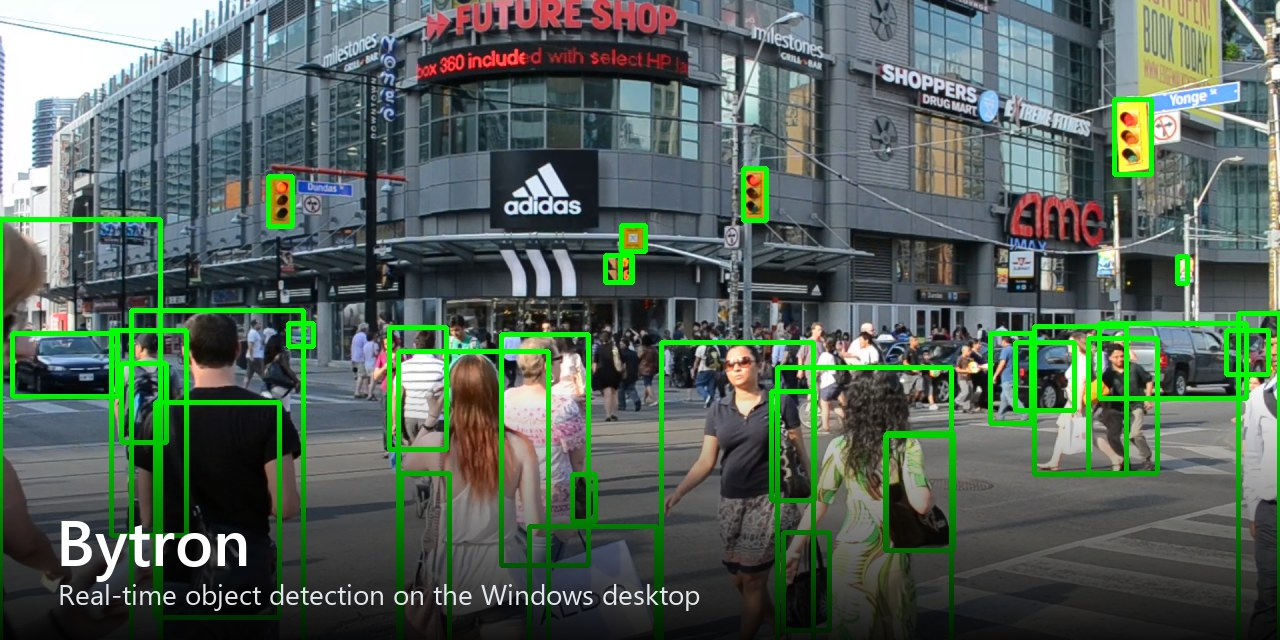
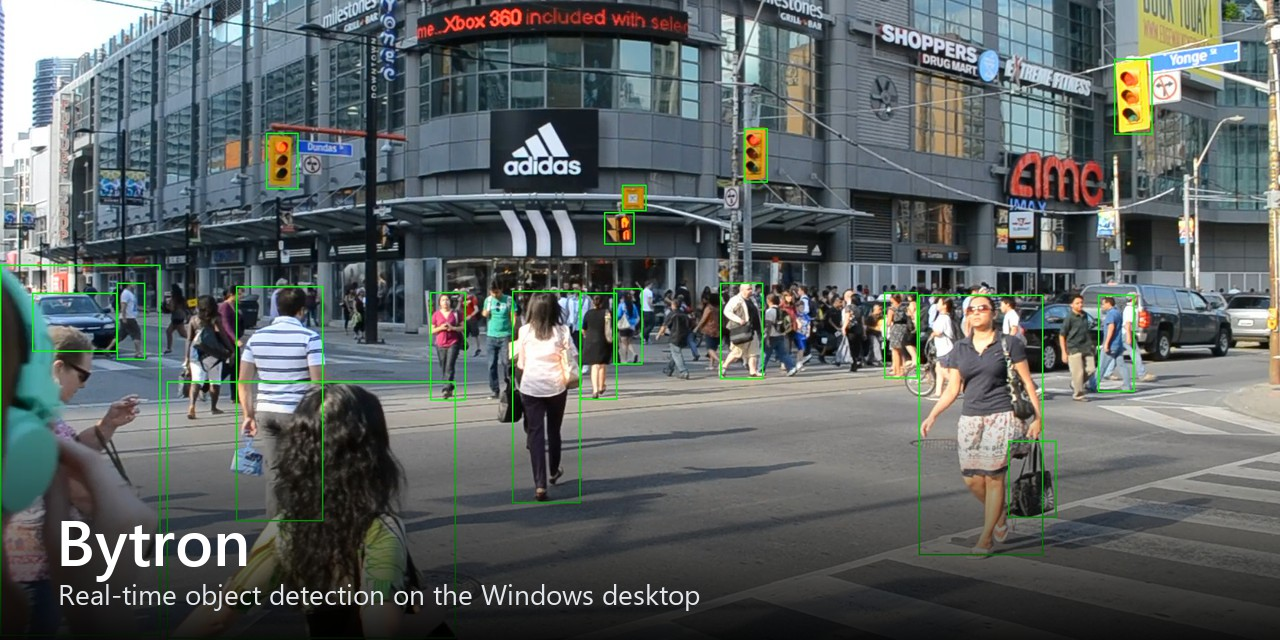
Use a live overlay recording and add full ONNX Runtime results
Replace the rendered demo with a screen recording of the overlay running on
CC0 footage. Rerun every ONNX Runtime baseline on an idle machine, and add the
TensorRT provider, which is the closest comparison.

diff --git a/site/index.html b/site/index.html
@@ -52,8 +52,8 @@
   <p class="lede">Bytron runs YOLO26 through TensorRT, with frames staying on the GPU from capture to inference.</p>
 
   <figure>
-    <img src="assets/demo.webp" alt="Green detection boxes tracking people and cars at a busy Toronto crosswalk" width="960" height="540">
-    <figcaption>Real yolo26m detections, drawn the way the overlay draws them. Rendered offline, because the overlay is excluded from screen capture. Footage: Raysonho, CC0, via Wikimedia Commons.</figcaption>
+    <img src="assets/demo.webp" alt="Screen recording of green detection boxes tracking a crowd at a Toronto crosswalk" width="1280" height="720">
+    <figcaption>Screen recording of the Bytron overlay running live at 238 fps on an RTX 4070 Ti. The shipped overlay is hidden from screen capture, so this take used a build with that exclusion turned off. Footage: Raysonho, CC0, via Wikimedia Commons.</figcaption>
   </figure>
 
   <section>
@@ -64,7 +64,9 @@
         <thead><tr><th>Same model, same GPU</th><th class="num">Time per frame</th></tr></thead>
         <tbody>
           <tr><td><strong>Bytron</strong></td><td class="num"><strong>1.65 ms</strong></td></tr>
-          <tr><td>ONNX Runtime with CUDA, in a Python loop</td><td class="num">11.87 ms</td></tr>
+          <tr><td>ONNX Runtime with TensorRT</td><td class="num">6.47 ms</td></tr>
+          <tr><td>ONNX Runtime with CUDA</td><td class="num">9.99 ms</td></tr>
+          <tr><td>ONNX Runtime on CPU</td><td class="num">110.76 ms</td></tr>
         </tbody>
       </table>
     </div>

diff --git a/benchmarks/baseline_onnxruntime.py b/benchmarks/baseline_onnxruntime.py
@@ -89,6 +89,8 @@ def main():
     parser.add_argument("--output", type=pathlib.Path, required=True)
     parser.add_argument("--iterations", type=int, default=2000)
     parser.add_argument("--cpu-iterations", type=int, default=200)
+    parser.add_argument("--tensorrt-cache", type=pathlib.Path,
+                        help="engine cache folder. Also measures the TensorRT provider")
     args = parser.parse_args()
 
     import onnxruntime as ort
@@ -106,6 +108,21 @@ def main():
         ["nvidia-smi", "--query-gpu=clocks.gr", "--format=csv,noheader,nounits"], text=True).strip())
     print("cuda", results["cuda"], flush=True)
     del gpu
+
+    if args.tensorrt_cache:
+        args.tensorrt_cache.mkdir(parents=True, exist_ok=True)
+        provider = ("TensorrtExecutionProvider", {
+            "trt_fp16_enable": True,
+            "trt_engine_cache_enable": True,
+            "trt_engine_cache_path": str(args.tensorrt_cache),
+        })
+        trt = ort.InferenceSession(str(args.onnx), options, providers=[provider, "CUDAExecutionProvider"])
+        print("active providers:", trt.get_providers(), flush=True)
+        results["tensorrt"] = measure(trt, frames, args.iterations, warmup=100)
+        results["tensorrt"]["clock_mhz"] = int(subprocess.check_output(
+            ["nvidia-smi", "--query-gpu=clocks.gr", "--format=csv,noheader,nounits"], text=True).strip())
+        print("tensorrt", results["tensorrt"], flush=True)
+        del trt
 
     cpu = ort.InferenceSession(str(args.onnx), options, providers=["CPUExecutionProvider"])
     results["cpu"] = measure(cpu, frames, args.cpu_iterations, warmup=10)

diff --git a/docs/benchmarks.md b/docs/benchmarks.md
@@ -2,18 +2,27 @@
 
 These results come from one real GPU on a live Windows desktop. The harness, the baseline and the raw results are all in this repository, so anyone can run them again.
 
-## Against a typical Python loop
+## Against ONNX Runtime
 
-| Same model, same GPU | Time per frame | Median | 99th percentile |
-| --- | ---: | ---: | ---: |
-| Bytron, graph replay, DXGI, 3 slots | 1.65 ms | not available | not available |
-| ONNX Runtime 1.23.2 with CUDA, in a Python loop | 11.87 ms | 10.3 ms | 19.26 ms |
+| Same model, same GPU | Time per frame | Median | 99th percentile | Inference alone |
+| --- | ---: | ---: | ---: | ---: |
+| Bytron, graph replay, DXGI, 3 slots | 1.65 ms | not available | not available | not available |
+| ONNX Runtime 1.23.2 with TensorRT | 6.47 ms | 6.41 ms | 7.41 ms | 3.62 ms |
+| ONNX Runtime 1.23.2 with CUDA | 9.99 ms | 9.95 ms | 10.87 ms | 7.12 ms |
+| ONNX Runtime 1.23.2 on CPU | 110.76 ms | 109.85 ms | 125.26 ms | 107.09 ms |
 
-Bytron takes about 7 times less time per frame. Of the ONNX Runtime time, 8.18 ms is inference, and the rest is preprocessing and postprocessing on the CPU.
+Bytron takes about 4 times less time per frame than the TensorRT provider, and about 6 times less than the CUDA provider. With the TensorRT provider, about 2.8 ms of each frame goes to CPU work outside inference, while Bytron's preprocessing kernel takes 0.03 ms on the GPU.
 
-The comparison is deliberately generous to the baseline. Its frame is already in host memory, so it pays nothing for capture or readback, which a real desktop loop must do. There are also real differences to keep in mind. Bytron runs FP16, and the ONNX Runtime run uses the model's FP32 weights. Bytron's figure is a mean of GPU time, and the baseline's is wall-clock time in Python. Detection accuracy was not compared.
+The comparison is deliberately generous to ONNX Runtime. Its frame is already in host memory, so it pays nothing for capture, which a real desktop loop must do.
 
-The baseline is in [baseline_onnxruntime.py](../benchmarks/baseline_onnxruntime.py), and its result is in [benchmarks/results](../benchmarks/results).
+There are also real differences to keep in mind:
+
+- **Timing source.** Bytron's figure is a mean of GPU time from CUDA events, including the readback to host memory. The ONNX Runtime figures are wall-clock time in Python, and include CPU postprocessing. Bytron's CPU postprocessing takes about 245 ns.
+- **Precision.** Bytron and the TensorRT provider run FP16. The CUDA and CPU runs use the model's FP32 weights.
+- **Accuracy.** Detection accuracy was not compared.
+- **Settings.** ONNX Runtime ran with default graph optimization. The CPU run used default threading.
+
+The baseline is in [baseline_onnxruntime.py](../benchmarks/baseline_onnxruntime.py), and its results are in [benchmarks/results](../benchmarks/results). It ran 2000 frames per GPU provider and 200 on the CPU, on real 1080p frames from the demo footage.
 
 ## Key findings
 
@@ -22,6 +31,7 @@ The baseline is in [baseline_onnxruntime.py](../benchmarks/baseline_onnxruntime.
 - **GPU clocks follow the load.** The GPU held 2820 MHz with DXGI capture but stayed near 1250 MHz at 60 fps, so each frame takes about twice as long at the lower rate. Mean GPU time still stayed well inside the frame interval.
 - **DXGI capture kept up with the 240 Hz display.** Windows.Graphics.Capture delivered exactly 60 fps in every run. Bytron does not set `MinUpdateInterval` on the capture session, and whether that explains the limit is not yet confirmed.
 - **Slot count made no measurable difference here.** Mean GPU time stayed far below the frame interval, so extra slots had little to do. Slots matter when GPU time approaches the frame interval, which these runs did not reach.
+- **The overlay holds up in a live run.** With the overlay drawing on the demo footage, Bytron logged 238 fps and 1.58 ms per frame.
 - **Inference is almost all of the GPU time.** Preprocessing and readback are each a small fraction of a millisecond.
 
 ## Test setup
@@ -92,7 +102,7 @@ Measured with `bytron_bench` in a Release build on the same CPU.
 - **Means, not percentiles.** Bytron logs a rounded running average, so frame-level percentiles are not available yet.
 - **Throughput is capture limited.** These runs show what capture delivered, not the most the pipeline can process.
 - **DXGI frame counts.** Cursor-only updates are counted as frames, so a figure above the refresh rate does not mean more new images.
-- **Not measured.** End-to-end latency from screen to overlay, detection accuracy, INT8, other models, other resolutions, the overlay and Vulkan outputs, and ONNX Runtime's TensorRT provider.
+- **Not measured.** End-to-end latency from screen to overlay, detection accuracy, INT8, other models, other resolutions and the Vulkan output.
 
 ## Reproduce
 
@@ -108,7 +118,8 @@ python benchmarks/render_report.py benchmarks/results/my-gpu.json
 
 python benchmarks/baseline_onnxruntime.py `
     --onnx yolo26m.onnx --video clip.webm `
-    --output benchmarks/results/baseline-onnxruntime.json
+    --output benchmarks/results/baseline-onnxruntime.json `
+    --tensorrt-cache models
 ```
 
 The first command takes about eight minutes with the defaults. The second updates the tables on this page. The third measures the ONNX Runtime baseline, and needs `numpy`, `opencv-python` and `onnxruntime-gpu`.

diff --git a/README.md b/README.md
@@ -20,23 +20,25 @@
 </p>
 
 <p align="center">
-  <img src="docs/assets/demo.webp" alt="Green detection boxes tracking people and cars at a busy Toronto crosswalk" width="100%">
+  <img src="docs/assets/demo.webp" alt="Screen recording of green detection boxes tracking a crowd at a Toronto crosswalk" width="100%">
 </p>
 
 <p align="center"><sub>
-  Real <code>yolo26m</code> detections, drawn the way the overlay draws them. Rendered offline, because the overlay is excluded from screen capture. Footage: Raysonho, CC0, via Wikimedia Commons.
+  Screen recording of the Bytron overlay running live at 238 fps on an RTX 4070 Ti. The shipped overlay is hidden from screen capture, so this take used a build with that exclusion turned off. Footage: Raysonho, CC0, via Wikimedia Commons.
 </sub></p>
 
 ## Why Bytron
 
 A typical Python loop copies every frame to the CPU, preprocesses it there, and sends it back to the GPU. Bytron skips those round trips. Frames stay in GPU memory, preprocessing runs in one CUDA kernel, and inference is replayed as a captured graph.
 
-| Same model, same GPU | Time per frame | Frames per second |
-| --- | ---: | ---: |
-| **Bytron** | **1.65 ms** | **sustains a 240 Hz display** |
-| ONNX Runtime with CUDA, in a Python loop | 11.87 ms | 84 |
+| Same model, same GPU | Time per frame |
+| --- | ---: |
+| **Bytron** | **1.65 ms** |
+| ONNX Runtime with TensorRT | 6.47 ms |
+| ONNX Runtime with CUDA | 9.99 ms |
+| ONNX Runtime on CPU | 110.76 ms |
 
-That is about 7 times less time per frame, on `yolo26m` at 640x640 on an RTX 4070 Ti. The Python figure leaves out capture entirely, which favors it. The two pipelines also differ in precision: Bytron runs FP16, and the ONNX Runtime run uses the model's FP32 weights.
+That is about 4 times less time per frame than ONNX Runtime's TensorRT provider, and about 6 times less than its CUDA provider, on `yolo26m` at 640x640 on an RTX 4070 Ti. The ONNX Runtime figures leave out capture entirely, which favors them.
 
 See the [benchmark report](docs/benchmarks.md) for the method, raw data and limitations.
 
